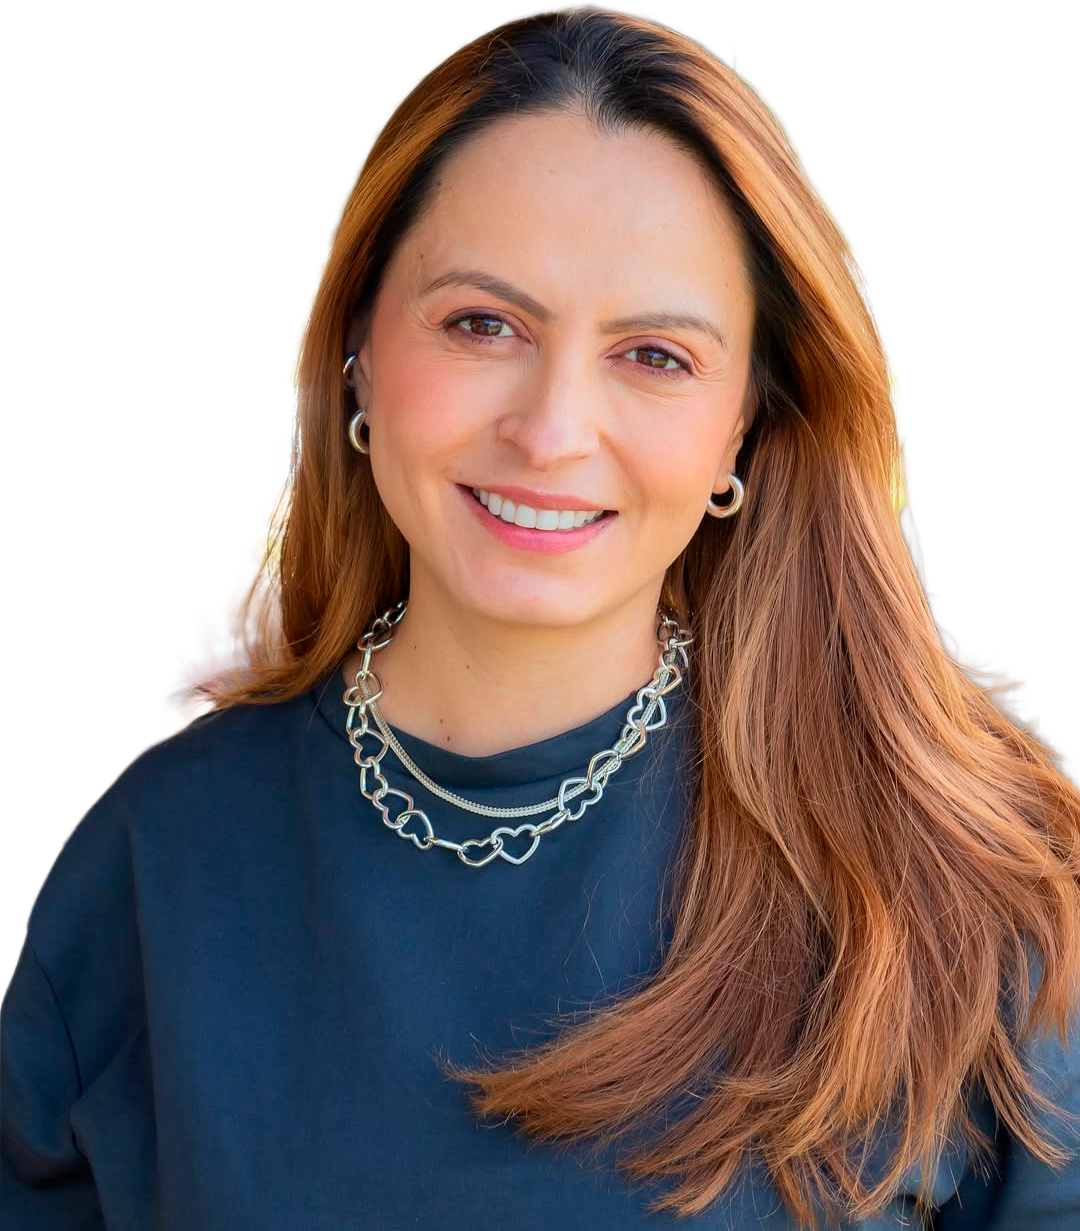
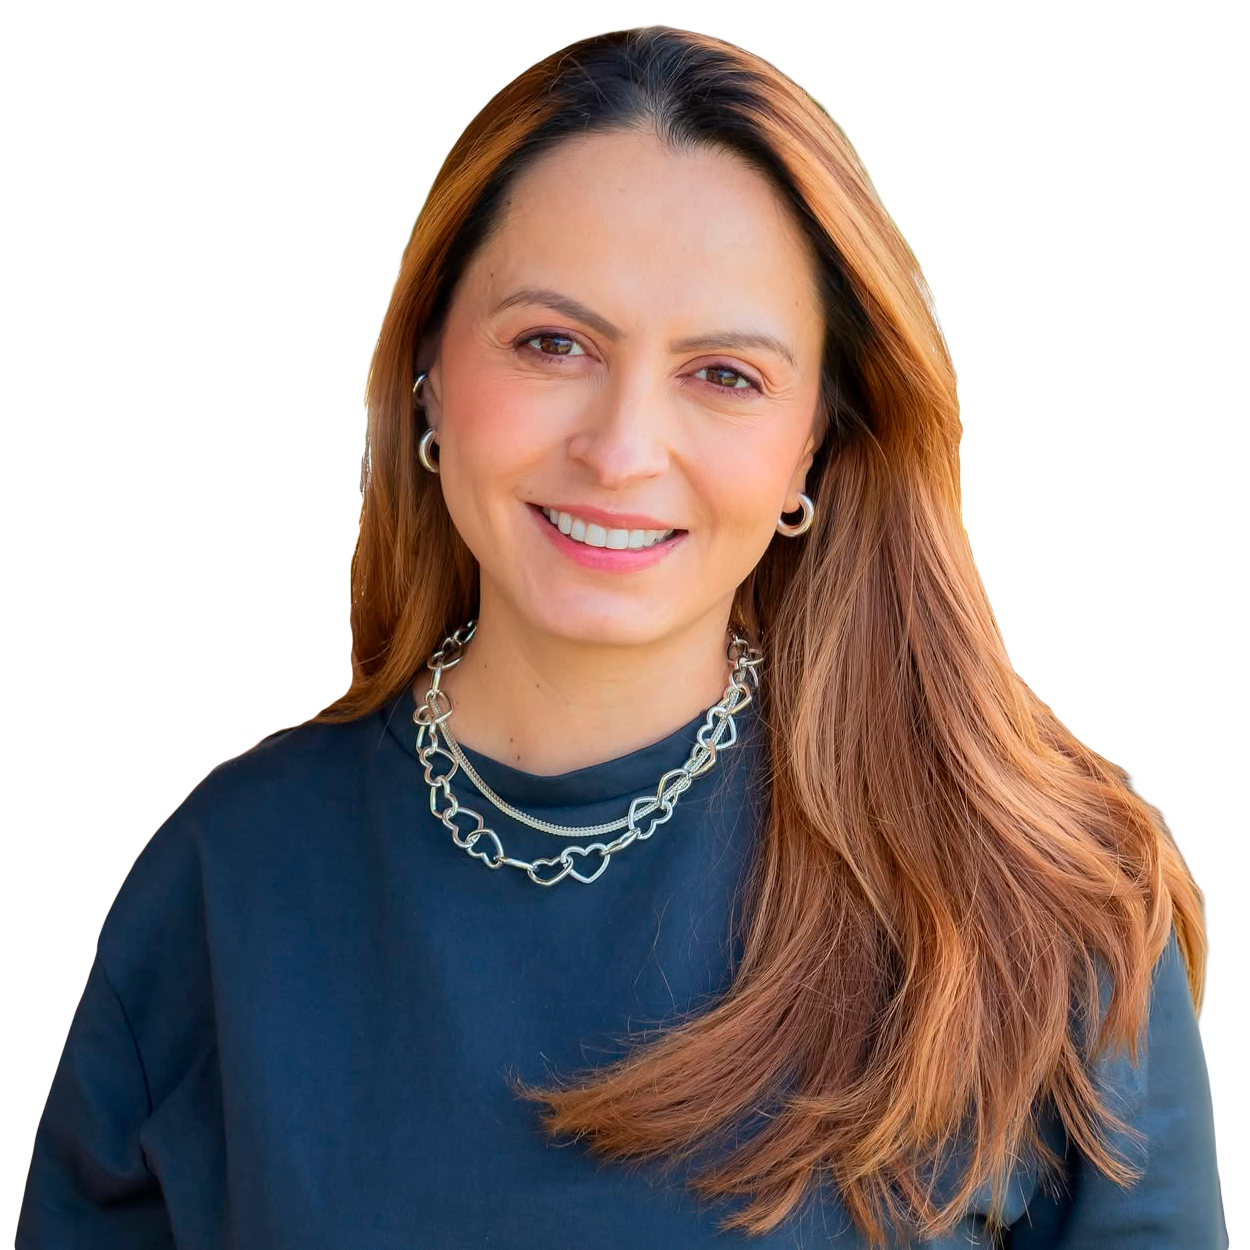
Add files via upload

diff --git a/style.css b/style.css
@@ -43,7 +43,7 @@ body {
 }
 
 header {
-    margin-bottom: 30px;
+    margin-bottom: 50px;
 }
 
 header h1 {
@@ -68,7 +68,7 @@ header p {
 .img-logo{
     max-width: 150px;
     height: auto;
-    margin-bottom: 15px;
+    margin-bottom: 30px;
 }
 
 /* Contenedor adaptativo para las tarjetas */
@@ -131,7 +131,7 @@ header p {
     top: -45px; 
     left: 50%;
     transform: translateX(-50%);
-    width: 130px !important; /* Forzamos el tamaño para evitar que se desborde */
+    width: 170px !important; /* Forzamos el tamaño para evitar que se desborde */
     height: auto !important;
     z-index: 2;
     filter: drop-shadow(0px 8px 10px rgba(0,0,0,0.2)); 

diff --git a/index.html b/index.html
@@ -32,7 +32,7 @@
             <div class="tarjeta-ponente" id="card-Ponente 2">
                 
                 <img src="Recursos/Estrella.png" alt="Flor 3D" class="decoracion2-3d">
-                <img src="Recursos/2.png" alt="Foto Ponente 2" class="foto-ponente">
+                <img src="Recursos/Issa.png" alt="Foto Ponente 2" class="foto-ponente">
                 
                 <div class="tarjeta-fondo">
                     <h2>Issa Vásquez</h2>